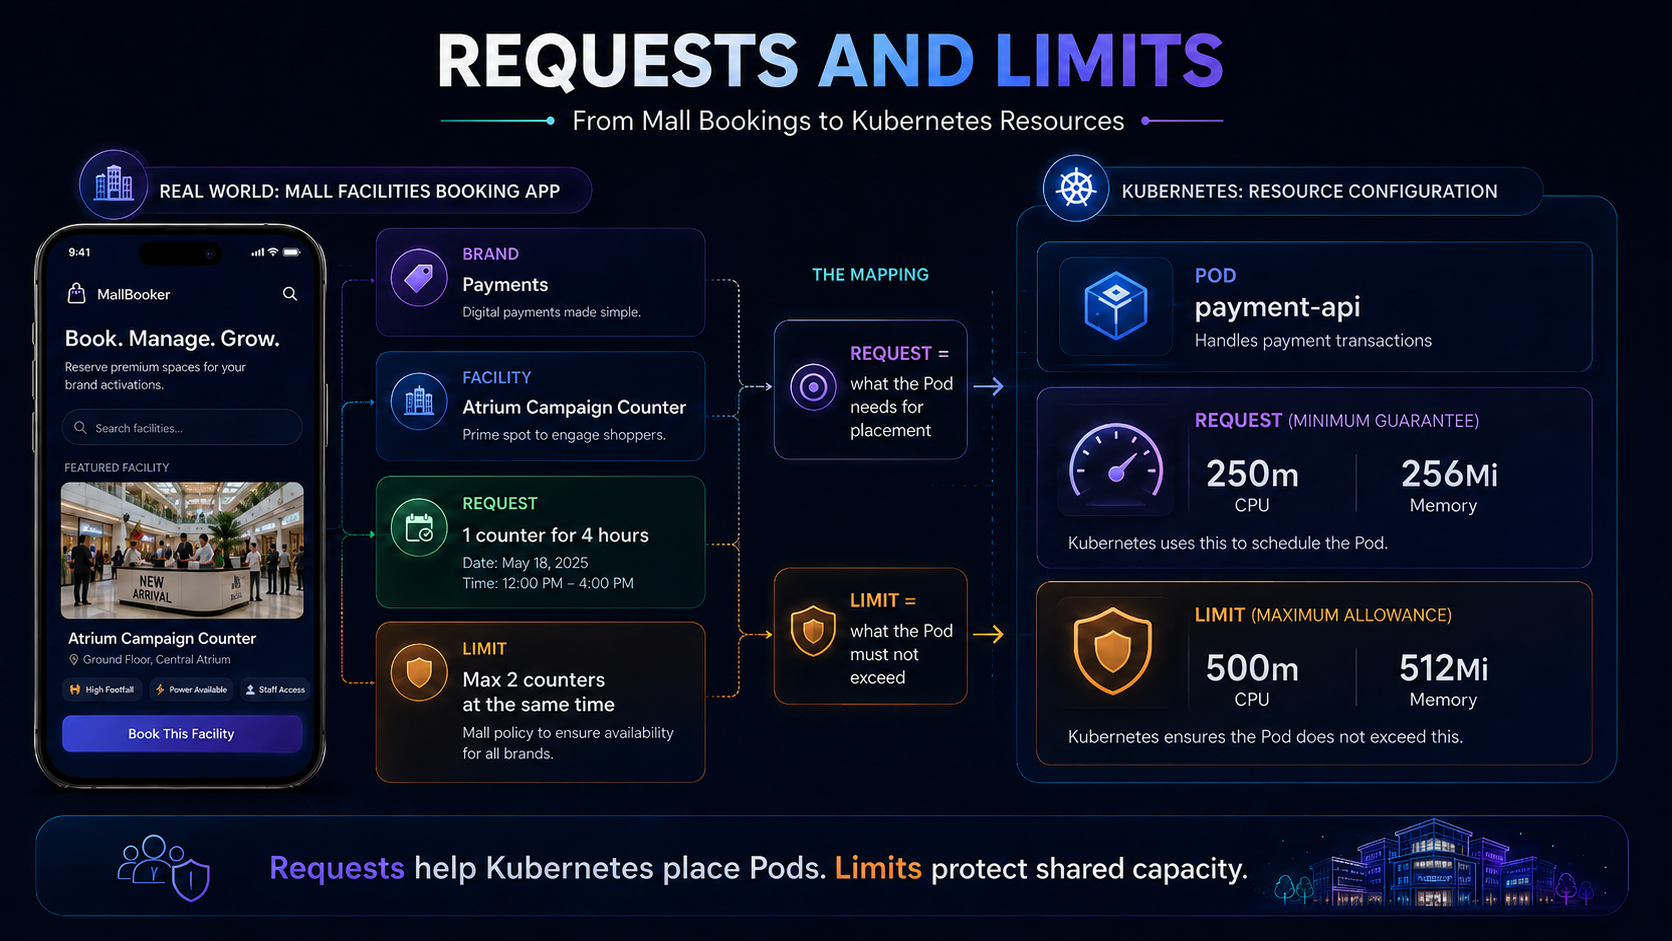
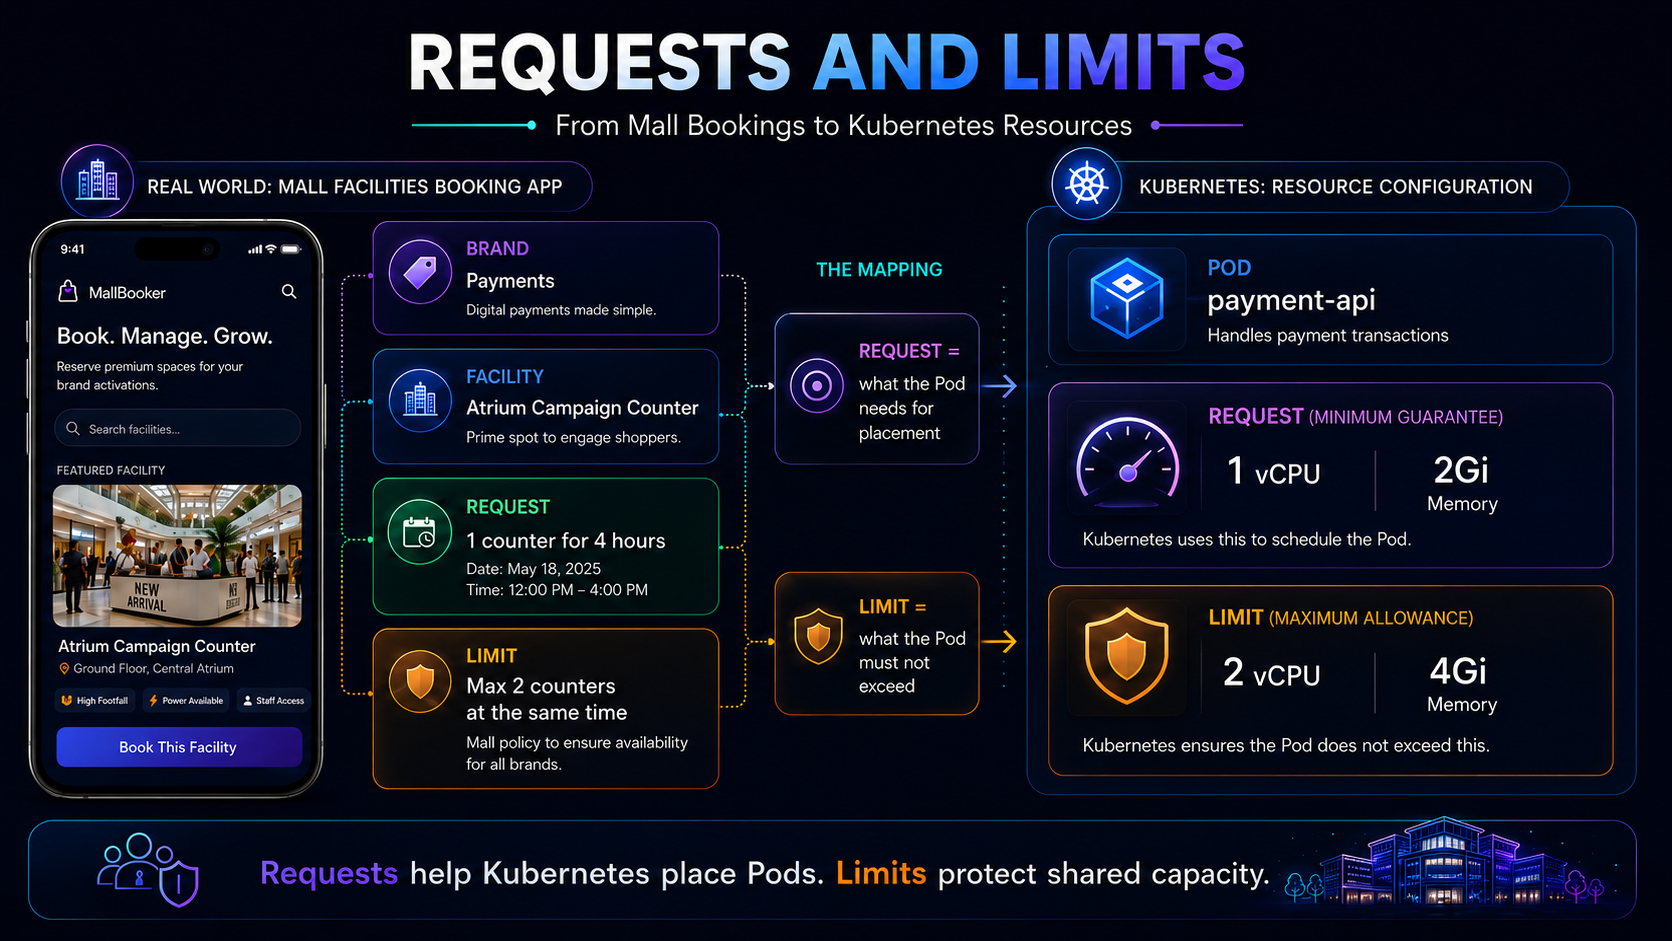
v2

diff --git a/blogs/002-kubernetes-foundations.html b/blogs/002-kubernetes-foundations.html
@@ -85,7 +85,8 @@
         margin: 26px 0;
         width: 100%;
       }
-      .quick-map-table th, .quick-map-table td {
+      .quick-map-table th,
+      .quick-map-table td {
         border-bottom: 1px solid var(--line);
         padding: 13px 12px;
         text-align: left;
@@ -93,7 +94,17 @@
       }
       .quick-map-table th { color: var(--ink); font-size: .78rem; letter-spacing: .08em; text-transform: uppercase; }
       .quick-map-table td { color: #536174; }
-      .quick-map-table td:first-child, .quick-map-table td:nth-child(2) { color: var(--ink); font-weight: 700; }
+      .quick-map-table td:first-child,
+      .quick-map-table td:nth-child(2) { color: var(--ink); font-weight: 700; }
+      .learning-note {
+        background: linear-gradient(135deg, rgba(42, 91, 224, .08), rgba(18, 190, 155, .08));
+        border: 1px solid rgba(42, 91, 224, .16);
+        border-radius: 18px;
+        color: #415066;
+        margin: 22px 0;
+        padding: 18px 20px;
+      }
+      .learning-note strong { color: var(--ink); display: block; margin-bottom: 6px; }
       .knowledge-card {
         background: #fff;
         border: 1px solid var(--line);
@@ -103,13 +114,38 @@
         padding: 22px;
       }
       .knowledge-card h3 { margin-top: 0; }
-      .answer-box {
+      .knowledge-options {
+        display: grid;
+        gap: 10px;
+        margin: 16px 0;
+      }
+      .knowledge-options button {
+        background: #f6f9ff;
+        border: 1px solid #d7e4fb;
+        border-radius: 14px;
+        color: #344256;
+        cursor: pointer;
+        font: inherit;
+        line-height: 1.45;
+        padding: 13px 14px;
+        text-align: left;
+        transition: border-color 160ms ease, background 160ms ease, transform 160ms ease;
+      }
+      .knowledge-options button:hover,
+      .knowledge-options button.selected {
+        background: #eef5ff;
+        border-color: var(--blue);
+        transform: translateY(-1px);
+      }
+      .answer-review {
         background: #f4f8ff;
         border-left: 4px solid var(--blue);
         border-radius: 14px;
         margin-top: 16px;
         padding: 16px;
       }
+      .answer-review strong { color: var(--ink); }
+      .answer-review ul { margin-bottom: 0; }
       @media (max-width: 900px) {
         .mental-map-grid { grid-template-columns: 1fr; }
         .quick-map-table { font-size: .88rem; }
@@ -149,9 +185,9 @@
             </p>
             <div class="article-meta">
               <span><strong>Author</strong> Sourabh Shrivastav</span>
-              <span><strong>15 min</strong> read</span>
+              <span><strong>16 min</strong> read</span>
               <span><strong>Audience</strong> Infrastructure and platform practitioners</span>
-              <span><strong>Validated</strong> June 28, 2026</span>
+              <span><strong>Validated</strong> June 30, 2026</span>
             </div>
           </div>
 
@@ -257,17 +293,17 @@
               </figure>
 
               <p>
-                Imagine a business unit called <strong>Payments</strong>. Payments may need more space. It can have one counter on Level 1, one reconciliation counter on Level 2, and one Payments Gateway counter in the East Wing.
+                Imagine a business unit called <strong>Payments</strong>. Payments may need more space. It can have one counter on Level 1, one reconciliation counter on Level 2, and one API counter in the East Wing.
                 The brand is not the floor. The brand uses space on one or more floors.
               </p>
               <div class="portable-example">
                 <div>
                   <span class="diagram-tag">Mall language</span>
                   <h3>Payments uses multiple mall locations.</h3>
-                  <p>Brand / Tenant: Payments<br />Outlet / Counter: Payments Gateway<br />Mall Zone / Floor: East Wing</p>
+                  <p>Brand / Tenant: Payments<br />Outlet / Counter: Payments API Counter<br />Mall Zone / Floor: East Wing</p>
                 </div>
                 <pre><code>Namespace: payments
-Pod: payment-gateway
+Pod: payment-api
 Worker Node: worker-node-03</code></pre>
               </div>
               <p>
@@ -283,7 +319,7 @@ Worker Node: worker-node-03</code></pre>
                 In the mall analogy, a Pod is an outlet, counter or store unit. The container is the business function running inside it.
               </p>
               <p>
-                A Deployment is not a single Pod. A Deployment is a plan. It tells Kubernetes how many Pods should be running and how they should be updated.
+                A Deployment is not a single Pod. A Deployment is a plan. It tells Kubernetes how many copies should be running and how those copies should be updated.
               </p>
               <div class="callout">
                 <strong>Deployment as a counter availability plan</strong>
@@ -292,8 +328,13 @@ Worker Node: worker-node-03</code></pre>
                 </p>
               </div>
               <p>
-                If a Deployment says <code>replicas: 3</code>, Kubernetes tries to keep three Pods running. If one Pod fails, Kubernetes creates another Pod.
+                Under the hood, a Deployment creates a behind-the-scenes manager called a <strong>ReplicaSet</strong>. The ReplicaSet keeps the requested number of Pods running.
+                So if a Deployment says <code>replicas: 3</code>, the ReplicaSet ensures that exactly three <code>payment-api</code> Pods stay available. If one Pod fails, a replacement Pod is created.
               </p>
+              <div class="learning-note">
+                <strong>Why this matters when you run commands</strong>
+                When you run <code>kubectl get all</code>, you may see a resource like <code>replicaset.apps/payment-api-xxxxx</code>. That is expected. It is the manager created by the Deployment to maintain the Pods.
+              </div>
             </section>
 
             <section class="article-section" id="traffic">
@@ -323,7 +364,7 @@ Worker Node: worker-node-03</code></pre>
 
             <section class="article-section" id="storage">
               <p class="section-number">06 · Storage fundamentals</p>
-              <h2>StorageClass is the type. PVC is the request. PV is the assigned storage.</h2>
+              <h2>StorageClass is the blueprint. PVC is the request. PV is the assigned storage.</h2>
               <p>
                 Not every application is stateless. Some applications need data to stay even if the Pod restarts. Examples include databases, file upload services, message queues and stateful applications.
               </p>
@@ -337,9 +378,16 @@ Worker Node: worker-node-03</code></pre>
                   alt="Storage infographic mapping mall storage type, storage request and actual storage room to Kubernetes StorageClass, PVC and PV."
                 />
                 <figcaption>
-                  StorageClass defines the type of storage. PVC requests storage. PV is the actual storage assigned to the workload.
+                  StorageClass defines the storage blueprint. PVC requests storage. PV is the actual storage assigned to the workload.
                 </figcaption>
               </figure>
+              <p>
+                The important idea is <strong>dynamic provisioning</strong>. Without a StorageClass, the mall admin would need to manually build every storage room ahead of time. That is like static provisioning.
+                With a StorageClass, the mall has a blueprint. When a tenant submits a storage request, the platform can automatically create and assign the right storage room.
+              </p>
+              <p>
+                In Kubernetes language, a Pod uses a <strong>PersistentVolumeClaim</strong> to ask for storage. A StorageClass describes what kind of storage should be created. Kubernetes then binds that request to a <strong>PersistentVolume</strong>, either from existing storage or by dynamically provisioning new storage through the storage provider.
+              </p>
             </section>
 
             <section class="article-section" id="resources">
@@ -350,18 +398,26 @@ Worker Node: worker-node-03</code></pre>
               </p>
               <p>
                 A request tells Kubernetes the minimum CPU or memory the Pod needs. The scheduler uses this information to place the Pod on a suitable worker node.
-                A limit tells Kubernetes the maximum CPU or memory the Pod is allowed to use.
+                A limit controls the maximum usage the container is allowed to reach.
               </p>
 
               <figure class="visual-showcase">
                 <img
                   src="../assets/blogs/kubernetes-foundations/kubernetes_resource_requests_and_limits.png"
-                  alt="Infographic showing mall facilities booking mapped to Kubernetes resource requests and limits for a payment-api Pod."
+                  alt="Infographic showing mall facilities booking mapped to Kubernetes resource requests and limits for a payment-api Pod using 1 vCPU and 2Gi memory request and 2 vCPU and 4Gi memory limit."
                 />
                 <figcaption>
                   Requests help Kubernetes place Pods. Limits protect shared capacity.
                 </figcaption>
               </figure>
+              <p>
+                CPU and memory behave differently when they hit limits. CPU is a compressible resource. If a container tries to use more CPU than its limit, Kubernetes throttles it, which means it slows down.
+                Memory is different. If a container tries to exceed its memory limit, it can be terminated with an <strong>OOMKilled</strong> error to protect the rest of the node.
+              </p>
+              <div class="learning-note">
+                <strong>Practical troubleshooting clue</strong>
+                If an application becomes slow, check CPU throttling. If a Pod restarts unexpectedly, check whether the container was OOMKilled because it crossed its memory limit.
+              </div>
             </section>
 
             <section class="article-section" id="config-health">
@@ -379,6 +435,7 @@ Worker Node: worker-node-03</code></pre>
                 <ol>
                   <li>The platform team creates the <strong>payments</strong> namespace.</li>
                   <li>The application team creates a Deployment to run three copies of <strong>payment-api</strong>.</li>
+                  <li>The Deployment creates a ReplicaSet, and the ReplicaSet maintains the Pods.</li>
                   <li>The scheduler places the Pods on suitable worker nodes.</li>
                   <li>Each Pod runs the payment-api container.</li>
                   <li>A Service gives stable access to those Pods.</li>
@@ -394,7 +451,7 @@ Worker Node: worker-node-03</code></pre>
             <section class="article-section" id="yaml">
               <p class="section-number">09 · Hands-on example</p>
               <h2>Read the story in YAML.</h2>
-              <p>This simple example creates a namespace, a deployment and a service.</p>
+              <p>This simple example creates a namespace, a Deployment and a Service. The Deployment requests 1 vCPU and 2Gi memory, with a limit of 2 vCPU and 4Gi memory.</p>
               <pre><code>apiVersion: v1
 kind: Namespace
 metadata:
@@ -422,11 +479,11 @@ spec:
         - containerPort: 80
         resources:
           requests:
-            cpu: "250m"
-            memory: "256Mi"
+            cpu: "1"
+            memory: "2Gi"
           limits:
-            cpu: "500m"
-            memory: "512Mi"
+            cpu: "2"
+            memory: "4Gi"
 ---
 apiVersion: v1
 kind: Service
@@ -439,6 +496,9 @@ spec:
   ports:
   - port: 80
     targetPort: 80</code></pre>
+              <p>
+                In this YAML, the namespace is the Payments brand account. The Deployment is the counter availability plan. The ReplicaSet is the behind-the-scenes manager. The Pods are the running counters. The Service is the stable directory number.
+              </p>
             </section>
 
             <section class="article-section" id="knowledge">
@@ -448,29 +508,101 @@ spec:
               <div class="knowledge-card">
                 <h3>Question 1</h3>
                 <p>Which statement best explains the difference between a Worker Node and a Namespace?</p>
-                <p>A. A Worker Node is logical, and a Namespace is physical<br />B. A Worker Node is where workloads run, and a Namespace is who they belong to<br />C. A Namespace runs containers directly<br />D. A Worker Node is only used for storage</p>
-                <div class="answer-box"><strong>Correct answer: B.</strong><p>A Worker Node provides runtime capacity. A Namespace provides logical ownership and separation. Namespaces do not run containers; Pods run containers, and Pods run on Worker Nodes.</p></div>
+                <div class="knowledge-options">
+                  <button type="button">A. A Worker Node is logical, and a Namespace is physical.</button>
+                  <button type="button">B. A Worker Node is where workloads run, and a Namespace is who they belong to.</button>
+                  <button type="button">C. A Namespace runs containers directly.</button>
+                  <button type="button">D. A Worker Node is only used for storage.</button>
+                </div>
+                <div class="answer-review" hidden>
+                  <strong>Correct answer: B.</strong>
+                  <ul>
+                    <li><strong>Why B is correct:</strong> A Worker Node provides runtime capacity. A Namespace provides logical ownership and separation.</li>
+                    <li><strong>Why A is wrong:</strong> It reverses the idea. Worker Nodes are runtime locations; namespaces are logical boundaries.</li>
+                    <li><strong>Why C is wrong:</strong> Namespaces do not run containers. Pods run containers, and Pods run on Worker Nodes.</li>
+                    <li><strong>Why D is wrong:</strong> Worker Nodes provide compute capacity for running Pods, not just storage.</li>
+                  </ul>
+                </div>
               </div>
 
               <div class="knowledge-card">
                 <h3>Question 2</h3>
-                <p>Why do we use a Service in Kubernetes?</p>
-                <p>A. To store application data<br />B. To provide stable access to changing Pods<br />C. To replace Deployments<br />D. To create Worker Nodes</p>
-                <div class="answer-box"><strong>Correct answer: B.</strong><p>Pods can be created, deleted and replaced. A Service gives a stable network identity for those Pods.</p></div>
+                <p>What does a Deployment create behind the scenes to keep the requested number of Pods running?</p>
+                <div class="knowledge-options">
+                  <button type="button">A. A Service.</button>
+                  <button type="button">B. A PersistentVolume.</button>
+                  <button type="button">C. A ReplicaSet.</button>
+                  <button type="button">D. An Ingress.</button>
+                </div>
+                <div class="answer-review" hidden>
+                  <strong>Correct answer: C.</strong>
+                  <ul>
+                    <li><strong>Why C is correct:</strong> A Deployment manages a ReplicaSet, and the ReplicaSet maintains the required number of Pods.</li>
+                    <li><strong>Why A is wrong:</strong> A Service provides stable network access; it does not maintain Pod replicas.</li>
+                    <li><strong>Why B is wrong:</strong> A PersistentVolume provides storage, not Pod replica management.</li>
+                    <li><strong>Why D is wrong:</strong> Ingress handles external HTTP/HTTPS routing into the cluster.</li>
+                  </ul>
+                </div>
               </div>
 
               <div class="knowledge-card">
                 <h3>Question 3</h3>
-                <p>What is the difference between a PVC and a PV?</p>
-                <p>A. PVC is the actual storage, and PV is the request<br />B. PVC is a request for storage, and PV is the actual storage assigned<br />C. PVC is used for networking<br />D. PV is used to expose applications</p>
-                <div class="answer-box"><strong>Correct answer: B.</strong><p>The application asks for storage using a PVC. Kubernetes binds that request to a suitable PV.</p></div>
+                <p>Why do we use a Service in Kubernetes?</p>
+                <div class="knowledge-options">
+                  <button type="button">A. To store application data.</button>
+                  <button type="button">B. To provide stable access to changing Pods.</button>
+                  <button type="button">C. To replace Deployments.</button>
+                  <button type="button">D. To create Worker Nodes.</button>
+                </div>
+                <div class="answer-review" hidden>
+                  <strong>Correct answer: B.</strong>
+                  <ul>
+                    <li><strong>Why B is correct:</strong> Pods can be created, deleted and replaced. A Service gives a stable network identity for those Pods.</li>
+                    <li><strong>Why A is wrong:</strong> Storage is handled using PV, PVC and StorageClass.</li>
+                    <li><strong>Why C is wrong:</strong> Deployment and Service solve different problems. Deployment manages rollout and replicas; Service exposes Pods.</li>
+                    <li><strong>Why D is wrong:</strong> Worker Nodes are part of the cluster infrastructure. Services do not create them.</li>
+                  </ul>
+                </div>
               </div>
 
               <div class="knowledge-card">
                 <h3>Question 4</h3>
-                <p>What is the main difference between resource requests and limits?</p>
-                <p>A. Requests are for storage, limits are for networking<br />B. Requests help Kubernetes place Pods, limits control maximum usage<br />C. Requests restart failed Pods, limits expose Services<br />D. Requests and limits are the same thing</p>
-                <div class="answer-box"><strong>Correct answer: B.</strong><p>The scheduler uses requests to decide where a Pod can fit. The node enforces limits so the container cannot exceed the configured maximum.</p></div>
+                <p>What is the main benefit of a StorageClass?</p>
+                <div class="knowledge-options">
+                  <button type="button">A. It automatically exposes an application outside the cluster.</button>
+                  <button type="button">B. It acts as a blueprint that can dynamically provision storage for PVCs.</button>
+                  <button type="button">C. It replaces the need for Services.</button>
+                  <button type="button">D. It decides which node should run a Pod.</button>
+                </div>
+                <div class="answer-review" hidden>
+                  <strong>Correct answer: B.</strong>
+                  <ul>
+                    <li><strong>Why B is correct:</strong> A StorageClass defines the type of storage and can be used for dynamic provisioning when a PVC asks for storage.</li>
+                    <li><strong>Why A is wrong:</strong> External access is handled by Services and Ingress.</li>
+                    <li><strong>Why C is wrong:</strong> StorageClass and Service solve different problems.</li>
+                    <li><strong>Why D is wrong:</strong> The scheduler decides which node should run a Pod.</li>
+                  </ul>
+                </div>
+              </div>
+
+              <div class="knowledge-card">
+                <h3>Question 5</h3>
+                <p>What happens when a container hits its CPU limit versus its memory limit?</p>
+                <div class="knowledge-options">
+                  <button type="button">A. CPU and memory are both ignored.</button>
+                  <button type="button">B. CPU is throttled; memory overuse can cause OOMKilled termination.</button>
+                  <button type="button">C. CPU overuse deletes the namespace; memory overuse creates a Service.</button>
+                  <button type="button">D. CPU and memory limits only affect storage.</button>
+                </div>
+                <div class="answer-review" hidden>
+                  <strong>Correct answer: B.</strong>
+                  <ul>
+                    <li><strong>Why B is correct:</strong> CPU is compressible, so excess usage is throttled. Memory is not compressible in the same way, so crossing the limit can terminate the container with OOMKilled.</li>
+                    <li><strong>Why A is wrong:</strong> Resource limits are enforced by Kubernetes and the container runtime.</li>
+                    <li><strong>Why C is wrong:</strong> CPU and memory limits do not delete namespaces or create Services.</li>
+                    <li><strong>Why D is wrong:</strong> CPU and memory limits affect compute resources, not storage.</li>
+                  </ul>
+                </div>
               </div>
             </section>
 
@@ -505,9 +637,10 @@ spec:
                 <li>Worker nodes are the physical floors or zones where workloads run.</li>
                 <li>Namespaces are brand or tenant accounts, not physical locations.</li>
                 <li>Pods are outlets or counters where containers run.</li>
+                <li>A Deployment creates a ReplicaSet, and the ReplicaSet keeps the requested Pods running.</li>
                 <li>Services provide stable access to changing Pods.</li>
-                <li>StorageClass, PVC and PV make storage consumable.</li>
-                <li>Requests and limits protect shared platform capacity.</li>
+                <li>StorageClass, PVC and PV make storage consumable through static or dynamic provisioning.</li>
+                <li>CPU limits can throttle. Memory limits can cause OOMKilled restarts.</li>
                 <li>Kubernetes is a desired-state system, not just a container launcher.</li>
               </ul>
               <div class="callout">
@@ -526,12 +659,13 @@ spec:
                 <li>Kubernetes official documentation — Namespaces</li>
                 <li>Kubernetes official documentation — Pods</li>
                 <li>Kubernetes official documentation — Deployments</li>
+                <li>Kubernetes official documentation — ReplicaSet</li>
                 <li>Kubernetes official documentation — Services</li>
                 <li>Kubernetes official documentation — Ingress</li>
-                <li>Kubernetes official documentation — Persistent Volumes</li>
+                <li>Kubernetes official documentation — Persistent Volumes and Dynamic Provisioning</li>
                 <li>Kubernetes official documentation — Resource Management for Pods and Containers</li>
               </ul>
-              <p><strong>Version-validation date:</strong> 28 June 2026<br /><strong>Last-reviewed date:</strong> 28 June 2026</p>
+              <p><strong>Version-validation date:</strong> 30 June 2026<br /><strong>Last-reviewed date:</strong> 30 June 2026</p>
             </section>
           </div>
         </div>
